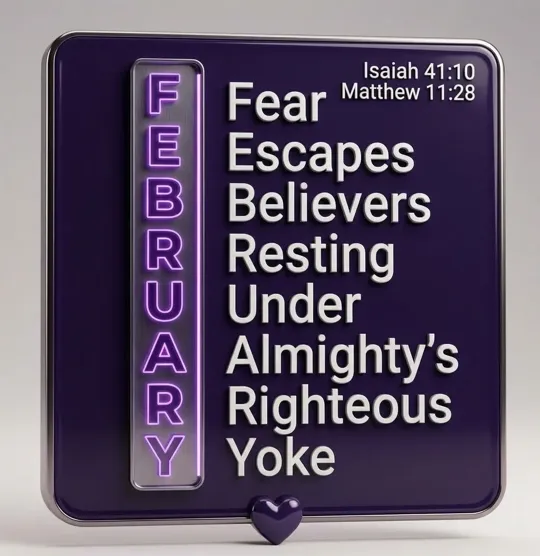
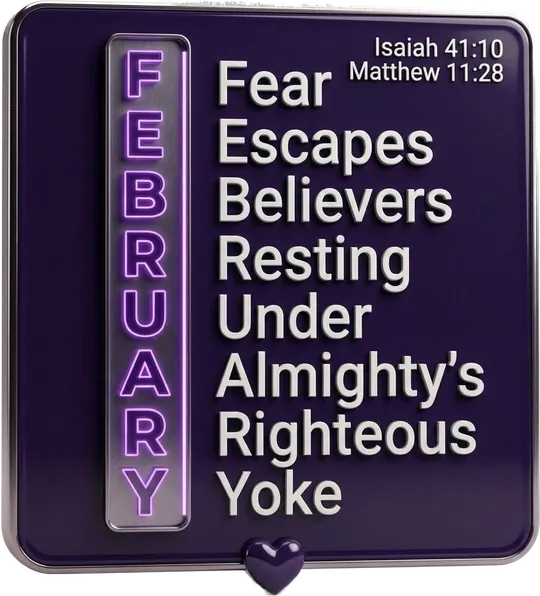
feat: transparent month card images (background removed) so cards sit on the dark page

diff --git a/js/acrostic.js b/js/acrostic.js
@@ -1,16 +1,16 @@
 window.CM_ACROSTIC = [
-  { name: "January", words: ["Jehovah", "Always", "Navigates", "Us", "Assisting", "Rebellious", "Youth"], ref: "Jeremiah 29:11", img: "img/months/01.webp", alt: "January: Journey Assists Newly Unfolding Ascends Restoration Yielding" },
-  { name: "February", words: ["Fear", "Escapes", "Believers", "Resting", "Under", "Almighty\u2019s", "Righteous", "Yoke"], ref: "Isaiah 41:10 \u00b7 Matthew 11:28", img: "img/months/02.webp", alt: "February: Fear Escapes Believers Resting Under Almighty\u2019s Righteous Yoke. Isaiah 41:10, Matthew 11:28" },
-  { name: "March", words: ["My", "Anchor", "Remains", "Christ", "Hallelujah"], ref: "Hebrews 6:19", img: "img/months/03.webp", alt: "March: My Anchor Remains Christ Hallelujah. Hebrews 6:19" },
-  { name: "April", words: ["Always", "Patient", "Rich", "In", "Love"], ref: "Psalm 103:8", img: "img/months/04.webp", alt: "April: Always Patient Rich In Love. Psalm 103:8" },
+  { name: "January", words: ["Jehovah", "Always", "Navigates", "Us", "Assisting", "Rebellious", "Youth"], ref: "Jeremiah 29:11", img: "img/months/01.webp", w: 854, h: 941, alt: "January: Journey Assists Newly Unfolding Ascends Restoration Yielding" },
+  { name: "February", words: ["Fear", "Escapes", "Believers", "Resting", "Under", "Almighty\u2019s", "Righteous", "Yoke"], ref: "Isaiah 41:10 \u00b7 Matthew 11:28", img: "img/months/02.webp", w: 887, h: 979, alt: "February: Fear Escapes Believers Resting Under Almighty\u2019s Righteous Yoke. Isaiah 41:10, Matthew 11:28" },
+  { name: "March", words: ["My", "Anchor", "Remains", "Christ", "Hallelujah"], ref: "Hebrews 6:19", img: "img/months/03.webp", w: 778, h: 1078, alt: "March: My Anchor Remains Christ Hallelujah. Hebrews 6:19" },
+  { name: "April", words: ["Always", "Patient", "Rich", "In", "Love"], ref: "Psalm 103:8", img: "img/months/04.webp", w: 799, h: 1100, alt: "April: Always Patient Rich In Love. Psalm 103:8" },
   { name: "May", words: ["Mountains", "Are", "Yielding"], ref: "Mark 11:23" },
-  { name: "June", words: ["Jesus", "Unlocks", "Nations\u2019", "Eternity"], ref: "John 3:16", img: "img/months/06.webp", alt: "June: Jesus Unlocks Nations\u2019 Eternity. John 3:16" },
+  { name: "June", words: ["Jesus", "Unlocks", "Nations\u2019", "Eternity"], ref: "John 3:16", img: "img/months/06.webp", w: 760, h: 1041, alt: "June: Jesus Unlocks Nations\u2019 Eternity. John 3:16" },
   { name: "July", words: ["Jesus", "Unchanging", "Lord", "Yesterday"], ref: "Hebrews 13:8" },
-  { name: "August", words: ["Always", "Under", "God\u2019s", "Unshakable", "Strength", "Trust"], ref: "Psalm 4:8", img: "img/months/08.webp", alt: "August: Always Under God\u2019s Unshakable Strength Trust. Psalm 4:8" },
-  { name: "September", words: ["Surrender", "Every", "Problem", "To", "Emmanuel;", "My", "Burdens", "Ease", "Rest"], ref: "Matthew 11:28 \u00b7 1 Peter 5:7", img: "img/months/09.webp", alt: "September: Seeking Endurance Patience Trust Empathy Mindfulness Blessings Empowerment Rest" },
-  { name: "October", words: ["Our", "Creator", "Transforms", "Ordeals", "Beautifully", "Everlastingly", "Restoring"], ref: "Romans 8:28", img: "img/months/10.webp", alt: "October: Our Creator Transforms Ordeals Beautifully Everlastingly Restoring. Romans 8:28" },
-  { name: "November", words: ["Nations", "Offer", "Vibrant", "Everlasting", "Melodies", "Before", "Elohim", "Rejoicing"], ref: "Psalm 100", img: "img/months/11.webp", alt: "November: Nations Offer Vibrant Everlasting Melodies Before Elohim Rejoicing" },
-  { name: "December", words: ["Descending", "Emmanuel", "Comes", "Embracing", "Mankind", "Bringing", "Eternal", "Redemption"], ref: "Isaiah 9:6 \u00b7 Luke 2", img: "img/months/12.webp", alt: "December: Descending Emmanuel Comes Embracing Mankind Before Elohim Rejoicing" }
+  { name: "August", words: ["Always", "Under", "God\u2019s", "Unshakable", "Strength", "Trust"], ref: "Psalm 4:8", img: "img/months/08.webp", w: 786, h: 1070, alt: "August: Always Under God\u2019s Unshakable Strength Trust. Psalm 4:8" },
+  { name: "September", words: ["Surrender", "Every", "Problem", "To", "Emmanuel;", "My", "Burdens", "Ease", "Rest"], ref: "Matthew 11:28 \u00b7 1 Peter 5:7", img: "img/months/09.webp", w: 925, h: 1025, alt: "September: Seeking Endurance Patience Trust Empathy Mindfulness Blessings Empowerment Rest" },
+  { name: "October", words: ["Our", "Creator", "Transforms", "Ordeals", "Beautifully", "Everlastingly", "Restoring"], ref: "Romans 8:28", img: "img/months/10.webp", w: 800, h: 1049, alt: "October: Our Creator Transforms Ordeals Beautifully Everlastingly Restoring. Romans 8:28" },
+  { name: "November", words: ["Nations", "Offer", "Vibrant", "Everlasting", "Melodies", "Before", "Elohim", "Rejoicing"], ref: "Psalm 100", img: "img/months/11.webp", w: 757, h: 1015, alt: "November: Nations Offer Vibrant Everlasting Melodies Before Elohim Rejoicing" },
+  { name: "December", words: ["Descending", "Emmanuel", "Comes", "Embracing", "Mankind", "Bringing", "Eternal", "Redemption"], ref: "Isaiah 9:6 \u00b7 Luke 2", img: "img/months/12.webp", w: 781, h: 1071, alt: "December: Descending Emmanuel Comes Embracing Mankind Before Elohim Rejoicing" }
 ];
 
 window.CM_monthSet = function (date) {

diff --git a/js/home.js b/js/home.js
@@ -102,9 +102,8 @@
         const stem = month.img.replace(/\.webp$/, "");
         host.innerHTML =
           `<picture>` +
-          `<source type="image/webp" srcset="${esc(stem)}-sm.webp 540w, ${esc(month.img)} 1100w" sizes="(max-width: 600px) 92vw, 480px" />` +
-          `<source type="image/jpeg" srcset="${esc(stem)}-sm.jpg 540w, ${esc(stem)}.jpg 1100w" sizes="(max-width: 600px) 92vw, 480px" />` +
-          `<img src="${esc(stem)}.jpg" alt="${esc(month.alt)}" width="821" height="1100" decoding="async" loading="eager" />` +
+          `<source type="image/webp" srcset="${esc(stem)}-sm.webp 540w, ${esc(month.img)} ${month.w || 1100}w" sizes="(max-width: 600px) 92vw, 480px" />` +
+          `<img src="${esc(stem)}-sm.png" alt="${esc(month.alt)}" width="${month.w || 800}" height="${month.h || 1050}" decoding="async" loading="eager" />` +
           `</picture>`;
         host.hidden = false;
       } else {

diff --git a/css/home.css b/css/home.css
@@ -629,7 +629,7 @@ body.qp-is-fs .site-header { visibility: hidden; }
 }
 .month-card--img img {
   display: block; width: 100%; height: auto;
-  border-radius: 20px; object-fit: contain;
+  object-fit: contain;
   filter: drop-shadow(0 22px 40px rgba(8, 4, 24, 0.55));
 }
 @media (max-width: 600px) { .month-card.month-card--img { padding: 0; max-width: 92vw; } }
